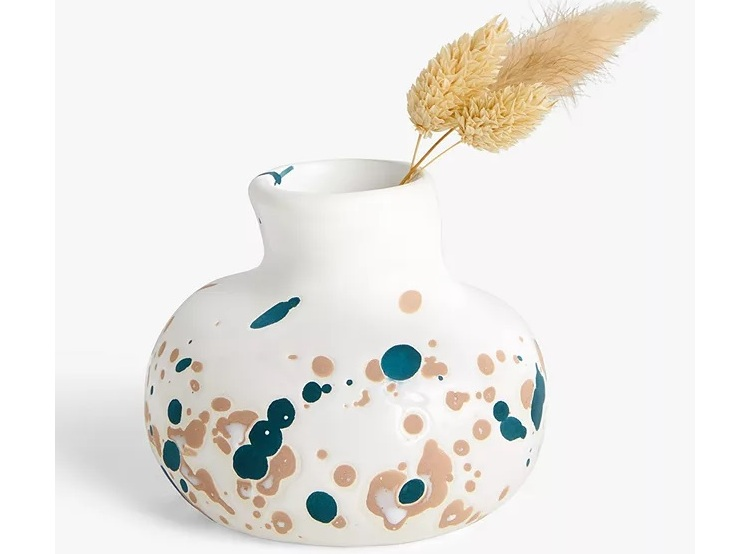
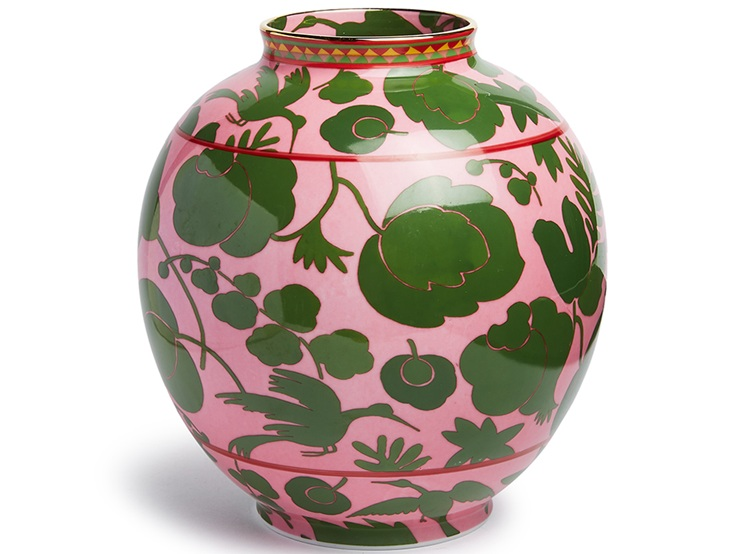
14092026

diff --git a/src/app/bascet-item-upd-form/bascet-item-upd-form.component.ts b/src/app/bascet-item-upd-form/bascet-item-upd-form.component.ts
@@ -45,69 +45,69 @@ export class BascetItemUpdComponent implements OnInit {
       this.item = items[this.prodId]
       console.log(this.item)
     })
-    }
-
-plus(price: number)
-{
-  this.isSubmitDisabled = false;
-  if(this.qty > 0)
-  {
-  this.result += price;
-  this.count ++;
-  this.qty --;
- }
- else
- {
-  this.isSubmitDisabled = true;
- }
-}
-minus(price: number)
-{
-  if(this.count > 0)
-  {
-    this.result -= price;
-    this.count --;
-    this.qty ++;
-    if(this.count < 0)
-    {
-      this.result = 0;
-      this.count = 0;
-      this.qty = this.itemsList[this.prodId].qty; 
-    }
   }
-  
-    if(this.count == 0)
+
+  plus(price: number)
+  {
+    this.isSubmitDisabled = false;
+    if(this.qty > 0)
+    {
+      this.result += price;
+      this.count ++;
+      this.qty --;
+    }
+    else
     {
       this.isSubmitDisabled = true;
     }
-  
-}
-cancel()
-{
-  this.result = 0;
-  this.count = 0;
-  this.qty = this.itemsList[this.prodId].qty;
-  this.isSubmitDisabled = true;
+  }
+  minus(price: number)
+  {
+    if(this.count > 0)
+    {
+      this.result -= price;
+      this.count --;
+      this.qty ++;
+      if(this.count < 0)
+      {
+        this.result = 0;
+        this.count = 0;
+        this.qty = this.itemsList[this.prodId].qty; 
+      }
+    }
+    
+      if(this.count == 0)
+      {
+        this.isSubmitDisabled = true;
+      }
+    
+  }
 
-}
+  cancel()
+  {
+    this.result = 0;
+    this.count = 0;
+    this.qty = this.itemsList[this.prodId].qty;
+    this.isSubmitDisabled = true;
 
-updItem()
-{
-  const uItem: IItem = Object({
-    id: this.item.id,
-    pic: this.item.pic,
-    header: this.item.header,
-    sub_header: this.item.sub_header,
-    paragraph: this.item.paragraph,
-    pic1: this.item.pic1,
-    header1: this.item.header1,
-    paragraph1: this.item.paragraph1,
-    qty: this.qty,
-    price: this.item.price,}
-    )
-  const newItem = this.itemService.updateItem(uItem).subscribe();
-}
+  }
 
+  updItem()
+  {
+    const uItem: IItem = Object({
+      id: this.item.id,
+      pic: this.item.pic,
+      header: this.item.header,
+      sub_header: this.item.sub_header,
+      paragraph: this.item.paragraph,
+      pic1: this.item.pic1,
+      header1: this.item.header1,
+      paragraph1: this.item.paragraph1,
+      qty: this.qty,
+      price: this.item.price,}
+      )
+    const newItem = this.itemService.updateItem(uItem).subscribe();
+  }
 }
 
 

diff --git a/src/app/app.component.ts b/src/app/app.component.ts
@@ -20,7 +20,27 @@ export class AppComponent implements OnInit {
   }
 
   ngOnInit() {
-    this.settingsService.loadSettings().subscribe();   // טוען פעם אחת בהפעלת האתר
+    this.settingsService.loadSettings().subscribe();
+    this.restoreSession();   // <-- חדש
+  }
+
+  private restoreSession() {
+    const savedUserId = this.userService.getUserIdFromStorage();
+    if (savedUserId === null) {
+      return; // אין סשן שמור — לא מחובר
+    }
+
+    this.userService.getUserById(savedUserId).subscribe((user) => {
+      this.userService.signedin$.next(true);
+      this.userService.signedinAdmin$.next(user.userName === 'admin');
+      this.userService.currentUserId$.next(user.id);
+      this.userService.currentUserName$.next(`${user.firstName} ${user.lastName}`);
+      this.userService.currentUserPurchases$.next(user.purchases ?? 0);
+
+      this.bascetService.getBascetsByUserId(user.id).subscribe((bascets) => {
+        this.bascetService.signedinBascet$.next(bascets.length > 0);
+      });
+    });
   }
 
   logout(event: Event) {
@@ -30,17 +50,17 @@ export class AppComponent implements OnInit {
     this.userService.currentUserId$.next(null);
     this.userService.currentUserName$.next(null);
     this.userService.currentUserPurchases$.next(0);
+    this.userService.clearUserIdFromStorage();
     this.bascetService.signedinBascet$.next(false);
     this.router.navigate(['']);
   }
 
   goBascet(event: Event) {
-    console.log(event);
     event.preventDefault();
     const currentUserId = this.userService.currentUserId$.getValue();
 
     if (currentUserId === null) {
-      alert('You must be logged in to access the basket.');
+      alert('You need to log in first!');
       return;
     }
 

diff --git a/src/app/bascet-manage-form/bascet-manage-form.component.ts b/src/app/bascet-manage-form/bascet-manage-form.component.ts
@@ -59,25 +59,31 @@ export class BascetManageFormComponent implements OnInit {
     });
   }
 
-  deleteBascet(id: number) {
-    this.bascetService.deleteBascet(id).subscribe(() => {
-      this.bascet = this.bascet.filter(b => b.id !== id);
-      if (this.bascet.length === 0) {
-        this.bascetService.signedinBascet$.next(false);
-      }
-    });
+deleteBascet(id: number) {
+  if (!confirm('Are you sure you want to delete the item?')) {
+    return;
   }
-
-  deleteAllBascets() {
+  this.bascetService.deleteBascet(id).subscribe(() => {
+    this.bascet = this.bascet.filter(b => b.id !== id);
     if (this.bascet.length === 0) {
-      return;
-    }
-    const ids = this.bascet.map(b => b.id);
-    this.bascetService.deleteAllBascets(ids).subscribe(() => {
-      this.bascet = [];
       this.bascetService.signedinBascet$.next(false);
-    });
+    }
+  });
+}
+
+deleteAllBascets() {
+  if (this.bascet.length === 0) {
+    return;
   }
+  if (!confirm('Are you sure you want to delete the basket?')) {
+    return;
+  }
+  const ids = this.bascet.map(b => b.id);
+  this.bascetService.deleteAllBascets(ids).subscribe(() => {
+    this.bascet = [];
+    this.bascetService.signedinBascet$.next(false);
+  });
+}
 
   plusQty(bascet: IBascetWithPic) {
     const newQty = bascet.itemQty + 1;

diff --git a/src/app/item-manage-form/item-manage-form.component.ts b/src/app/item-manage-form/item-manage-form.component.ts
@@ -5,11 +5,11 @@ import { IItem2 } from '../interfaces/item2.interface';
 import { ItemService } from '../services/item.service';
 import { Item2Service } from '../services/item2.service';
 
-@Component({
-  selector: 'app-item-manage-form',
-  templateUrl: './item-manage-form.component.html',
-  styleUrls: ['./item-manage-form.component.css'],
-})
+  @Component({
+    selector: 'app-item-manage-form',
+    templateUrl: './item-manage-form.component.html',
+    styleUrls: ['./item-manage-form.component.css'],
+  })
 export class ItemManageFormComponent implements OnInit {
   items: (IItem | IItem2)[] = [];
   itemType: number = 1;
@@ -40,6 +40,9 @@ export class ItemManageFormComponent implements OnInit {
   }
 
   deleteItem(itemId: number) {
+    if (!confirm('Are you sure you want to delete the item?')) {
+      return;
+    }
     if (this.itemType === 1) {
       this.itemService.deleteItem(itemId).subscribe(() => {
         this.items = this.items.filter(i => i.id !== itemId);

diff --git a/src/app/finale/finale.component.html b/src/app/finale/finale.component.html
@@ -9,14 +9,14 @@
       <td width="100" bgColor="EAE0CF"><h4>Price</h4></td>
     </tr>
     <tr valign="middle" *ngFor="let line of invoiceLines">
-      <td><h4>{{ line.header }}</h4></td>
-      <td><h4>{{ line.itemQty }}</h4></td>
-      <td><h4>${{ line.itemPrice.toLocaleString() }}</h4></td>
+      <td>{{ line.header }}</td>
+      <td>{{ line.itemQty }}</td>
+      <td>${{ line.itemPrice.toLocaleString() }}</td>
     </tr>
     <tr>
       <td colspan="3" align="right" valign="middle">
-      <p>Subtotal: ${{ subtotal.toFixed(2) }}</p>
-      <p>VAT ({{ vatRatePercent }}%): ${{ vatAmount.toFixed(2) }}</p>
+      <h4>Subtotal: ${{ subtotal.toFixed(2) }}</h4>
+      <h4>VAT ({{ vatRatePercent }}%): ${{ vatAmount.toFixed(2) }}</h4>
       <h4 class="price">Grand Total: ${{ grandTotal.toFixed(2) }}</h4>
       </td>
     </tr>

diff --git a/src/app/user-reg-form/user-reg-form.component.ts b/src/app/user-reg-form/user-reg-form.component.ts
@@ -55,9 +55,10 @@ export class UseregFormComponent {
       return
     }
     this.userService.createUser(newUser).subscribe((createdUser) => {
-      // "מתחברים" את המשתמש החדש אוטומטית לאחר ההרשמה
+      // מחבר את המשתמש החדש אוטומטית לאחר ההרשמה
+      this.userService.saveUserIdToStorage(createdUser.id);
       this.userService.signedin$.next(true);
-      this.userService.signedinAdmin$.next(false); // משתמש חדש לעולם לא admin
+      this.userService.signedinAdmin$.next(false);
       this.userService.currentUserId$.next(createdUser.id);
       this.userService.currentUserName$.next(`${createdUser.firstName} ${createdUser.lastName}`);
       this.userService.currentUserPurchases$.next(createdUser.purchases ?? 0);

diff --git a/src/app/finale/finale.component.ts b/src/app/finale/finale.component.ts
@@ -37,7 +37,7 @@ export class FinaleComponent implements OnInit {
     private itemService: ItemService,
     private item2Service: Item2Service,
     private userService: UserService,
-    private settingsService: SettingsService,   // <-- הוספה
+    private settingsService: SettingsService,
     private paymentService: PaymentService
   ) {
     this.activatedRoute.paramMap.subscribe(params => {
@@ -48,7 +48,7 @@ export class FinaleComponent implements OnInit {
   ngOnInit(): void {
     this.paymentDetails = this.paymentService.getPaymentDetails();
 
-    const vatRate = this.settingsService.getCurrentSettings().vatRate; // <-- דינמי
+    const vatRate = this.settingsService.getCurrentSettings().vatRate;
     this.vatRatePercent = vatRate * 100;
 
     forkJoin({

diff --git a/src/app/services/user.service.ts b/src/app/services/user.service.ts
@@ -17,9 +17,24 @@ export class UserService {
 
   constructor(
     private http: HttpClient,
-    private settingsService: SettingsService   // <-- הוספה
+    private settingsService: SettingsService
   ) {}
 
+  private readonly STORAGE_KEY = 'currentUserId';
+
+  saveUserIdToStorage(userId: number) {
+    localStorage.setItem(this.STORAGE_KEY, String(userId));
+  }
+
+  getUserIdFromStorage(): number | null {
+    const stored = localStorage.getItem(this.STORAGE_KEY);
+    return stored ? Number(stored) : null;
+  }
+
+  clearUserIdFromStorage() {
+    localStorage.removeItem(this.STORAGE_KEY);
+  }
+  
   getAllUsers(): Observable<IUser[]> {
     return this.http.get<IUser[]>(`${this.baseURL}users`);
   }

diff --git a/src/app/product-comp/product-comp.component.ts b/src/app/product-comp/product-comp.component.ts
@@ -40,7 +40,7 @@ export class ProductCompComponent implements OnInit {
     private itemService: ItemService,
     private item2Service: Item2Service,
     private bascetService: BascetService,
-    public userService: UserService,   // <-- public, כי גם ה-HTML ישתמש בו
+    public userService: UserService,
     private router: Router
   ) {
     this.activatedRoute.paramMap.subscribe(params => this.itemType = Number(params.get("itemType")));

diff --git a/src/app/user-manage-form/user-manage-form.component.ts b/src/app/user-manage-form/user-manage-form.component.ts
@@ -17,8 +17,11 @@ export class UserManageFormComponent implements OnInit {
     })
   }
 
-  deleteUser(userId: number){
-    this.userService.deleteUser(userId).subscribe(()=>{
+  deleteUser(userId: number) {
+    if (!confirm('Are you sure you want to delete the user?')) {
+      return;
+    }
+    this.userService.deleteUser(userId).subscribe(() => {
       this.users = this.users.filter(u => u.id !== userId);
     });
   }

diff --git a/src/app/category-comp/category-comp.component.ts b/src/app/category-comp/category-comp.component.ts
@@ -20,7 +20,7 @@ export class CategoryCompComponent implements OnInit {
     private itemService: ItemService,
     private item2Service: Item2Service,
     private activatedRoute: ActivatedRoute,
-    public userService: UserService   // <-- הוספה, public כדי שה-HTML יוכל לגשת
+    public userService: UserService
   ) { }
 
   ngOnInit(): void {

diff --git a/src/app/services/bascet.service.ts b/src/app/services/bascet.service.ts
@@ -17,7 +17,7 @@ export class BascetService {
   }
 
   getBascetsByUserId(userId: number): Observable<IBascet[]> {
-    return this.http.get<IBascet[]>(`${this.baseURL}baskets?userId=${userId}`);
+    return this.http.get<IBascet[]>(`${this.baseURL}baskets?userId=${userId}&_=${Date.now()}`);
   }
 
   getBascetById(bascetId: number): Observable<IBascet> {
